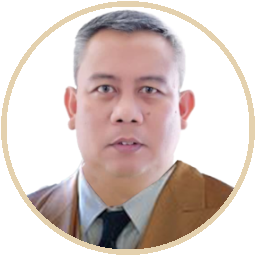
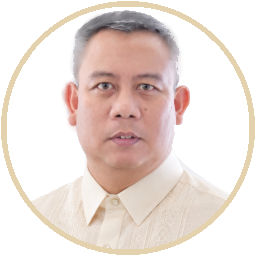
Updated Images and Removed Non-existent Personnel

Changed region(s): [[0.0938, 0.0312, 0.9375, 1.0]]

diff --git a/organizationalchartPDMU.html b/organizationalchartPDMU.html
@@ -1256,21 +1256,6 @@
 
                                                                                                 </div>
                                                                                             
-
-
-                                                                                                <div class="org-row">
-                                                                                                  <div class="org-node">
-                                                                                                    <a href="#" class="org-chart-img">
-                                                                                                      <img src="organizationalchart/images/LGOOIICarlosPCena_PDMU.png" alt="Cluster Head" class="adjust-left" loading="lazy" decoding="async">
-                                                                                                    </a>
-                                                                                                    <div class="node-label"  style=" font-size: 1.2em;">CARLOS P. CENA</div>
-                                                                                                    <div class="node-label">LGOO II / PDMU</div>
-                                                                                                  </div>
-                                                                                                </div>
-
-
-
-
                                                                                                 <div class="org-row">
                                                                                                   <div class="org-node">
                                                                                                     <a href="#" class="org-chart-img">
